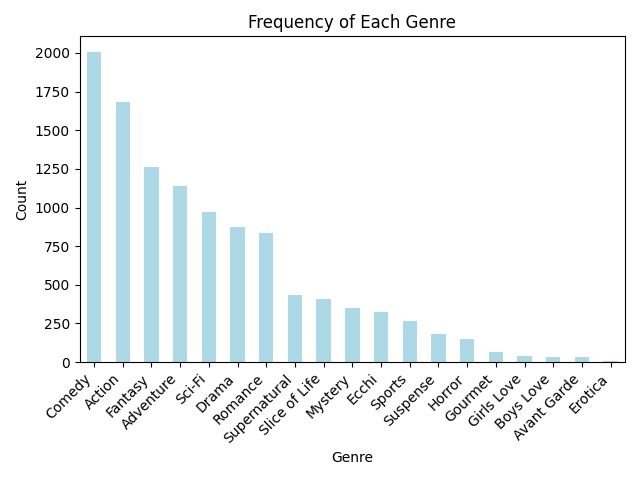
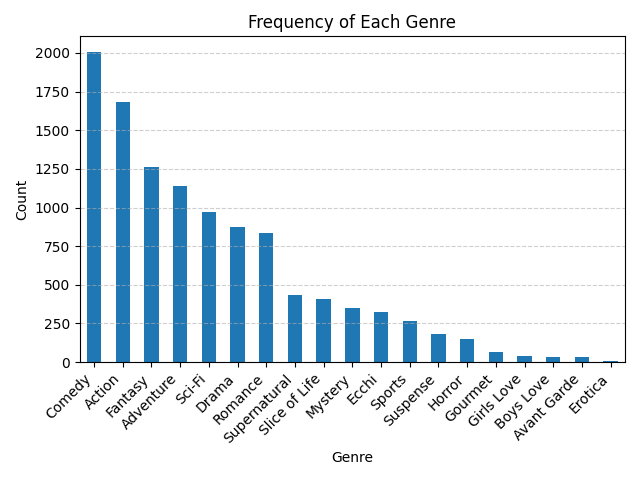
updated genre frequency graph

Changed region(s): [[0.125, 0.0938, 0.875, 0.75]]

diff --git a/wf_visualization.py b/wf_visualization.py
@@ -131,9 +131,10 @@ def generate_genre_trends(df):
     )
     genre_frequency = df_exploded["Genres"].value_counts()
 
-    genre_frequency.plot(kind="bar", title="Frequency of Each Genre", color="lightblue")
+    genre_frequency.plot(kind="bar", title="Frequency of Each Genre")
     plt.ylabel("Count")
     plt.xlabel("Genre")
+    plt.grid(axis="y", linestyle="--", alpha=0.6)
     plt.xticks(rotation=45, ha="right")
     plt.tight_layout()
     plt.savefig(f"visuals/TV/genre_frequency.png")
